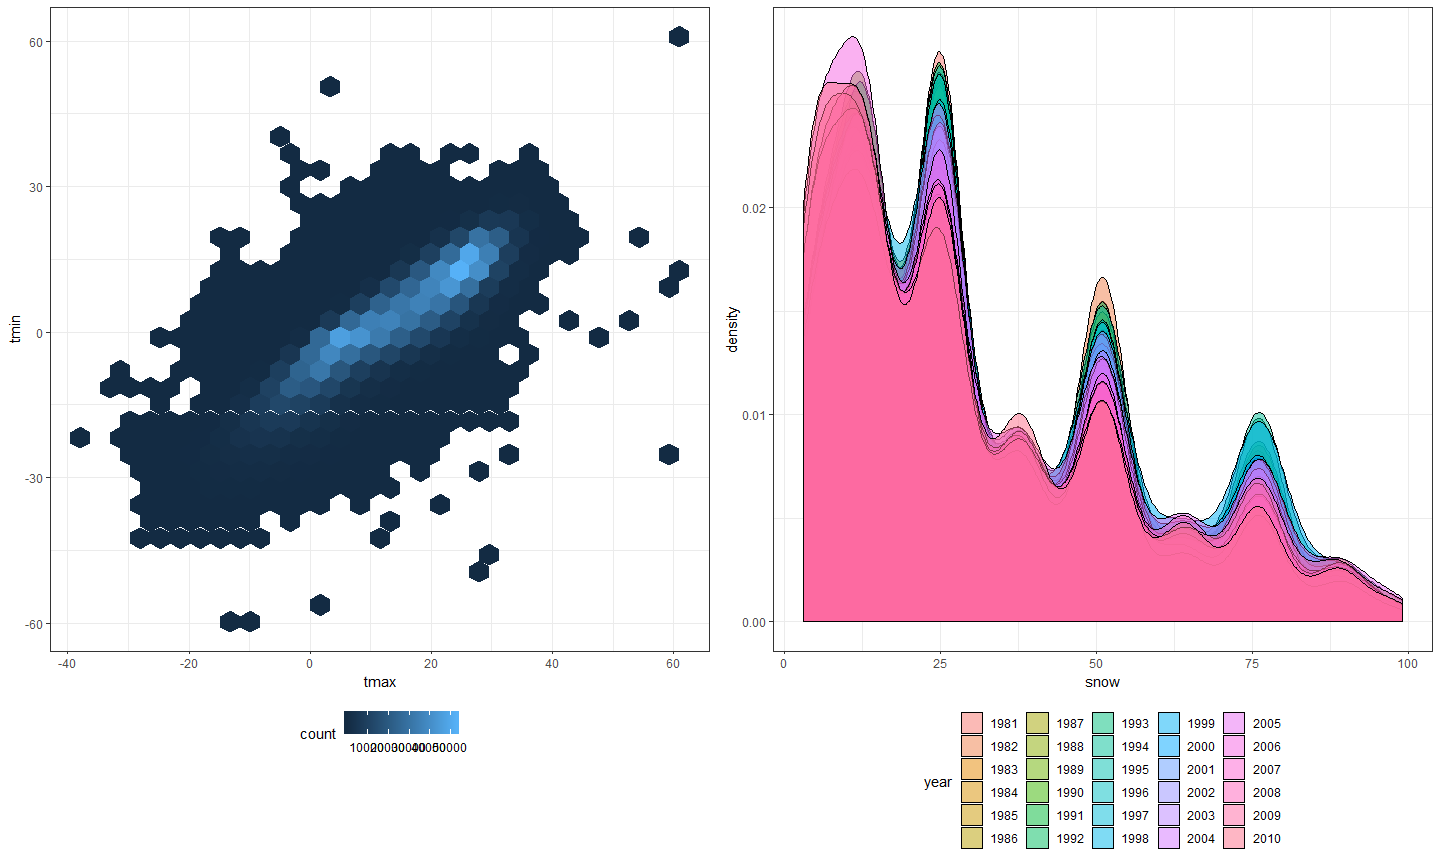
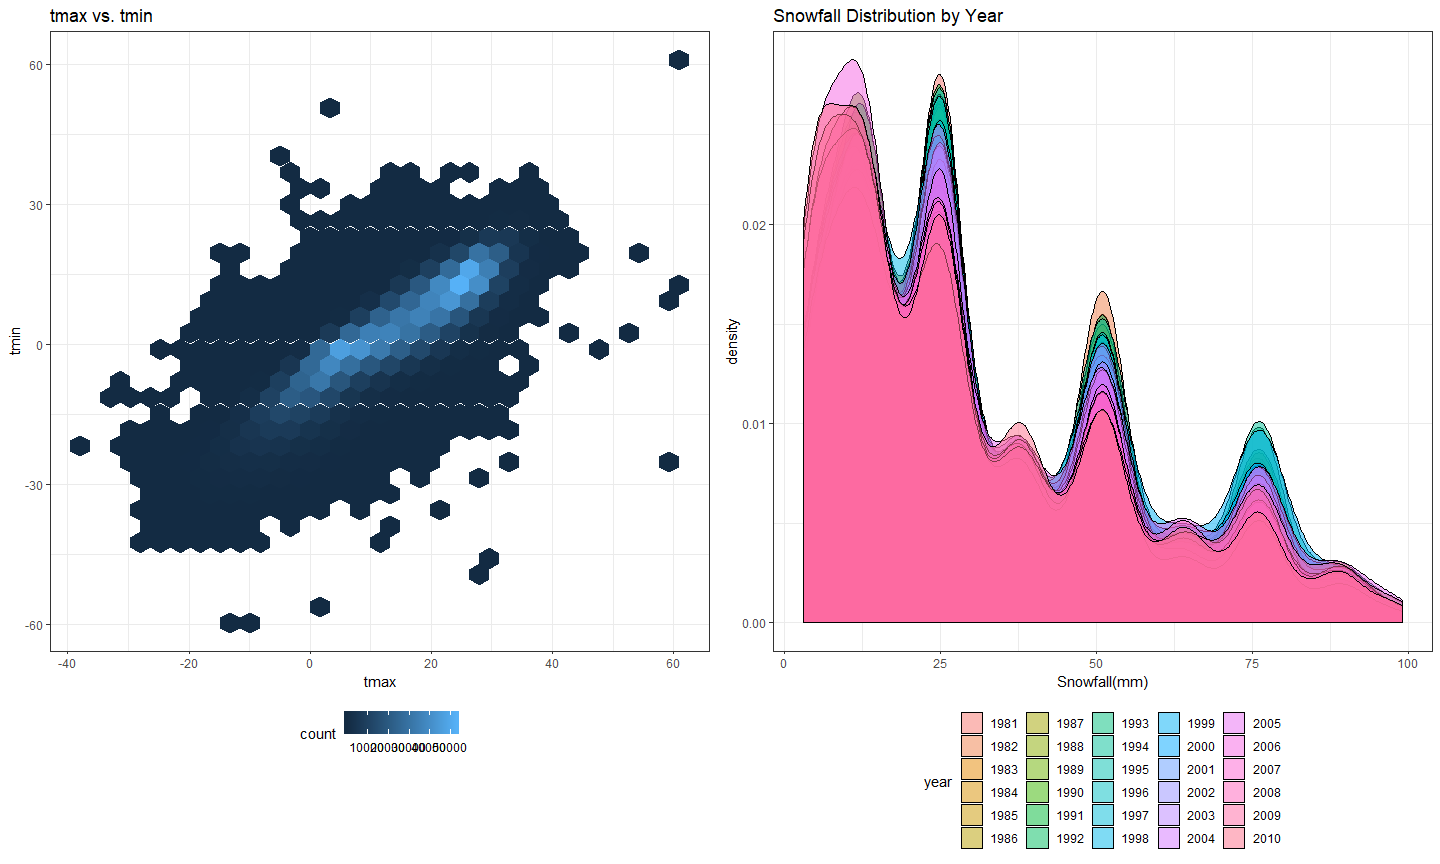
detailed comments and labels added to last plot- end of hw3

diff --git a/p8105_hw3_jl5296.md b/p8105_hw3_jl5296.md
@@ -338,13 +338,21 @@ According to the plot, the average max temperatures for each station across year
 # create plot for tmax vs. tmin
 p1 = tidy_nynoaa %>% 
   ggplot(aes(x = tmax, y = tmin)) +
-  geom_hex()
+  geom_hex() +
+  labs(
+    title = "tmax vs. tmin"
+  )
 
-# create plot for distribution of snowfall 
+# create plot for distribution of snowfall between 0 and 100mm
 p2 = tidy_nynoaa %>% 
   filter(snow < 100 & snow > 0) %>% 
   ggplot(aes(x = snow, fill = year)) +
-           geom_density(alpha = .5)
+  geom_density(alpha = .5) +
+  labs(
+    title = "Snowfall Distribution by Year ",
+    x = "Snowfall(mm)"
+  )
+  
 # use patchwork package to combine panels
 p1 + p2
 ```
